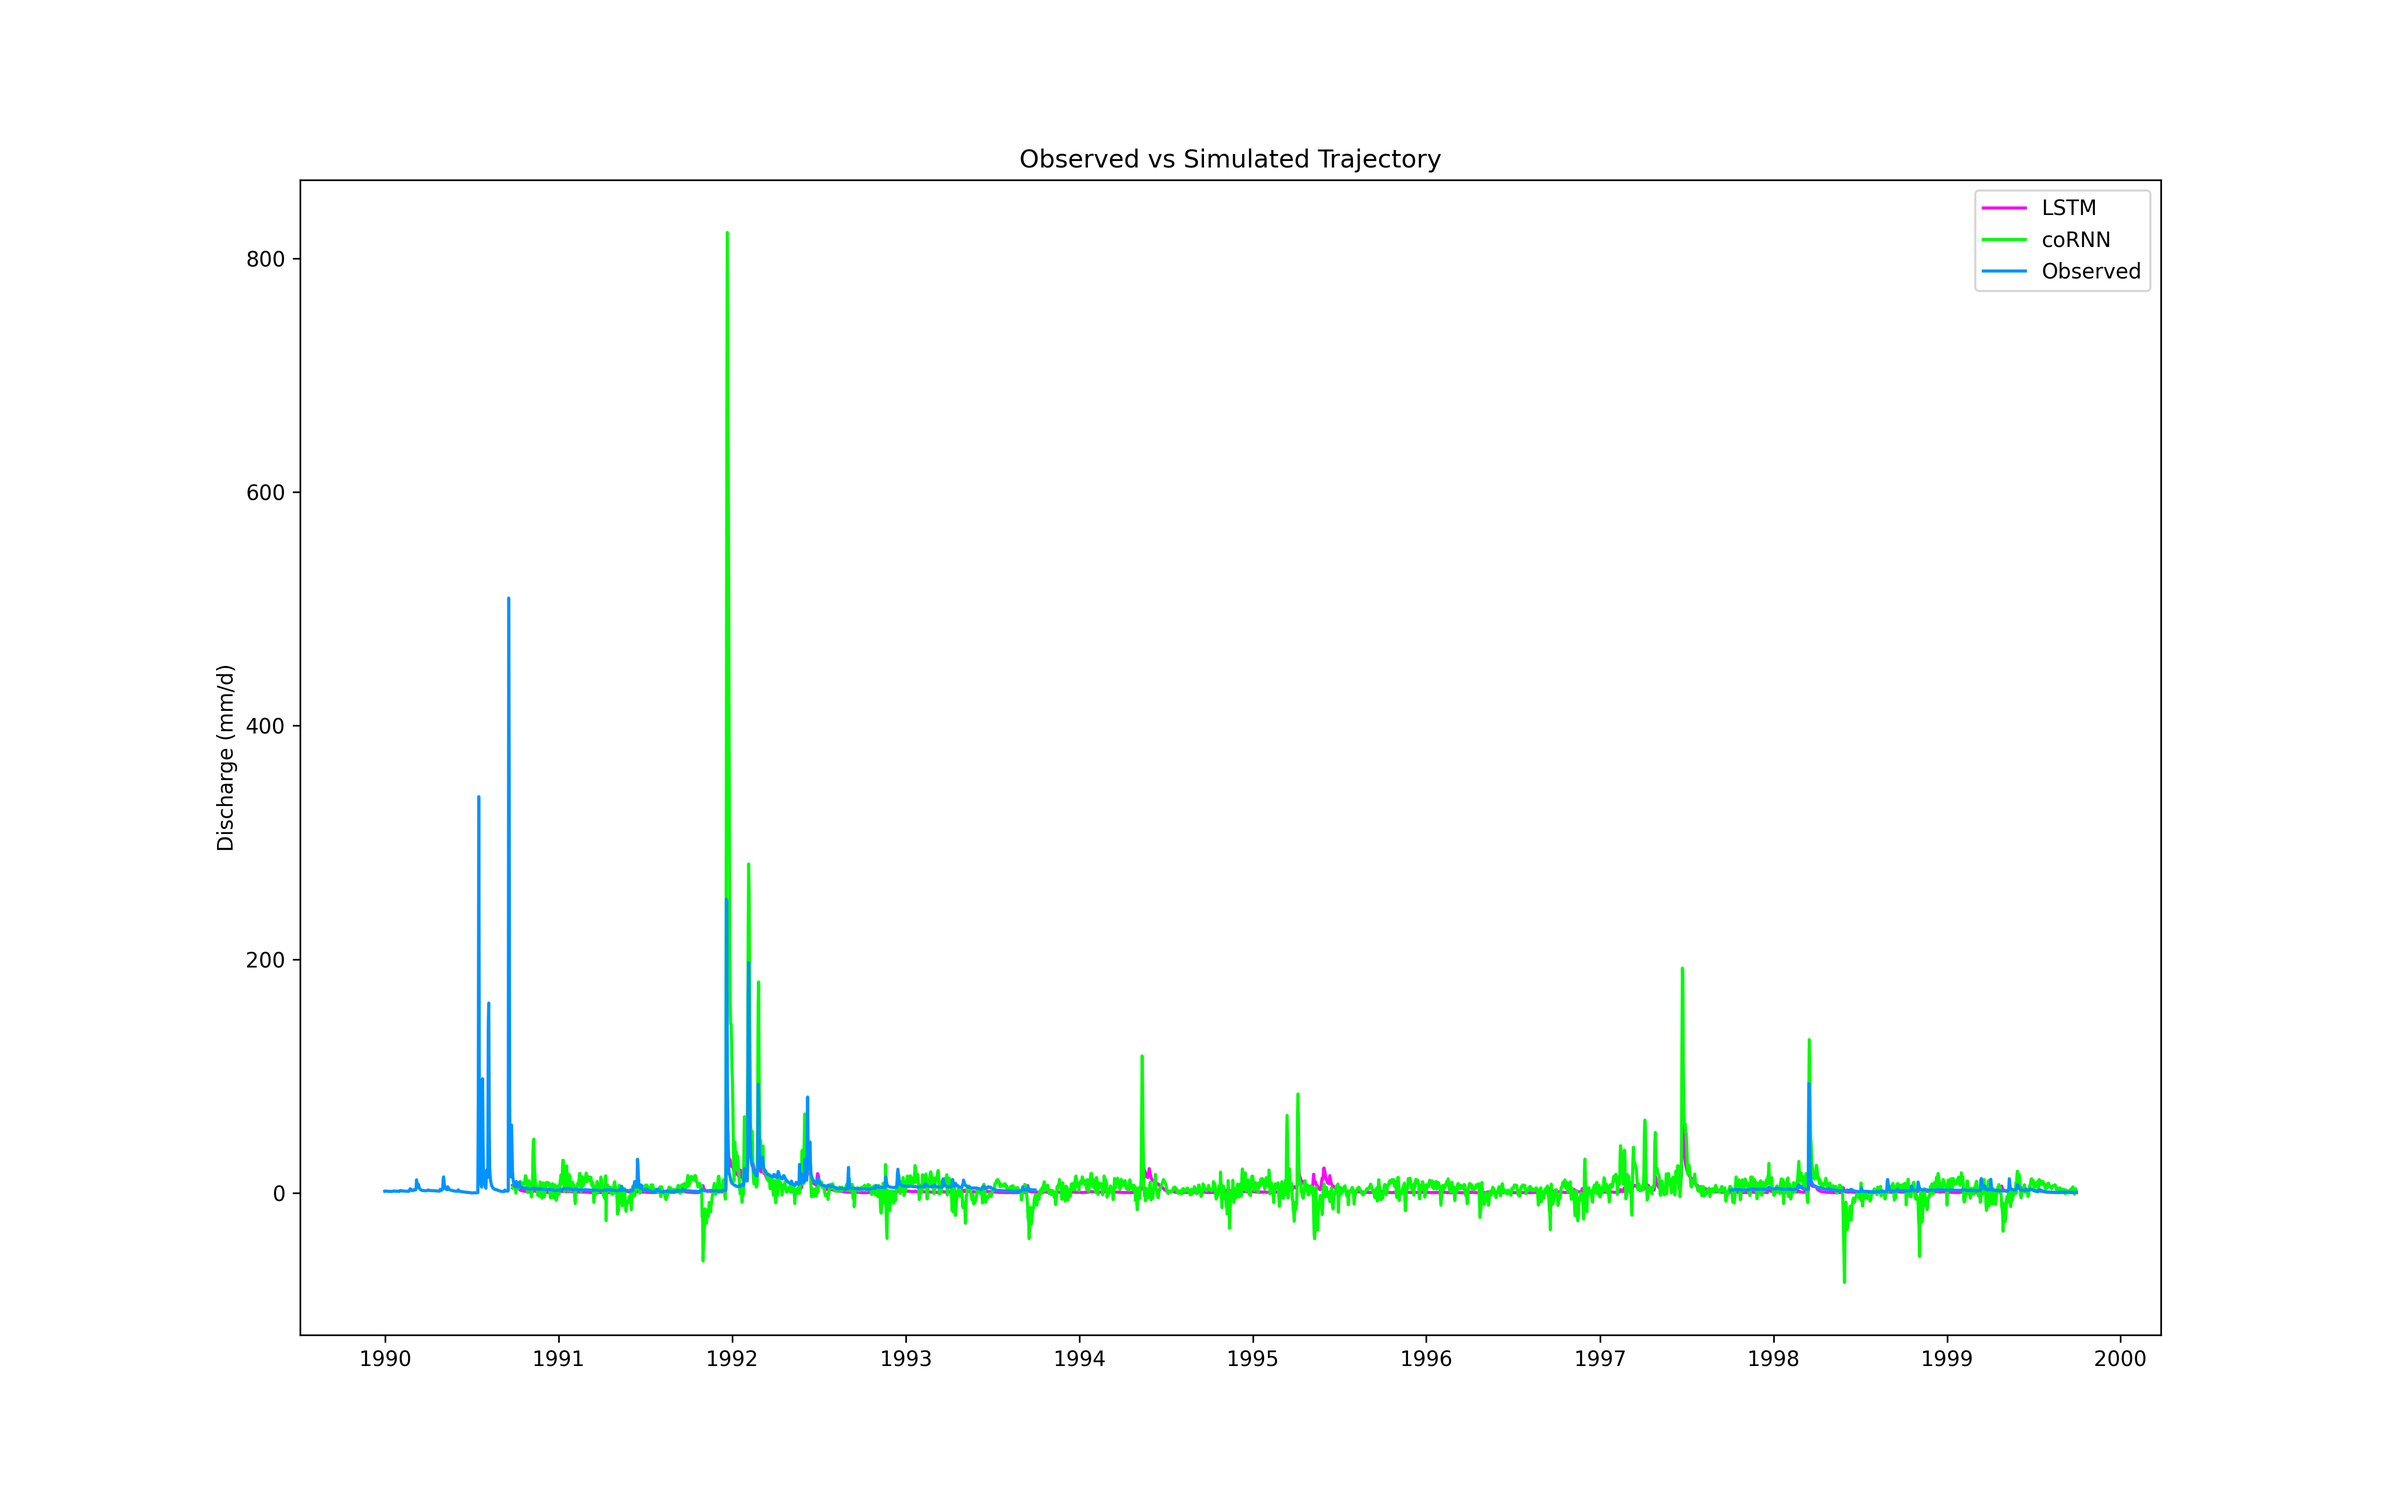
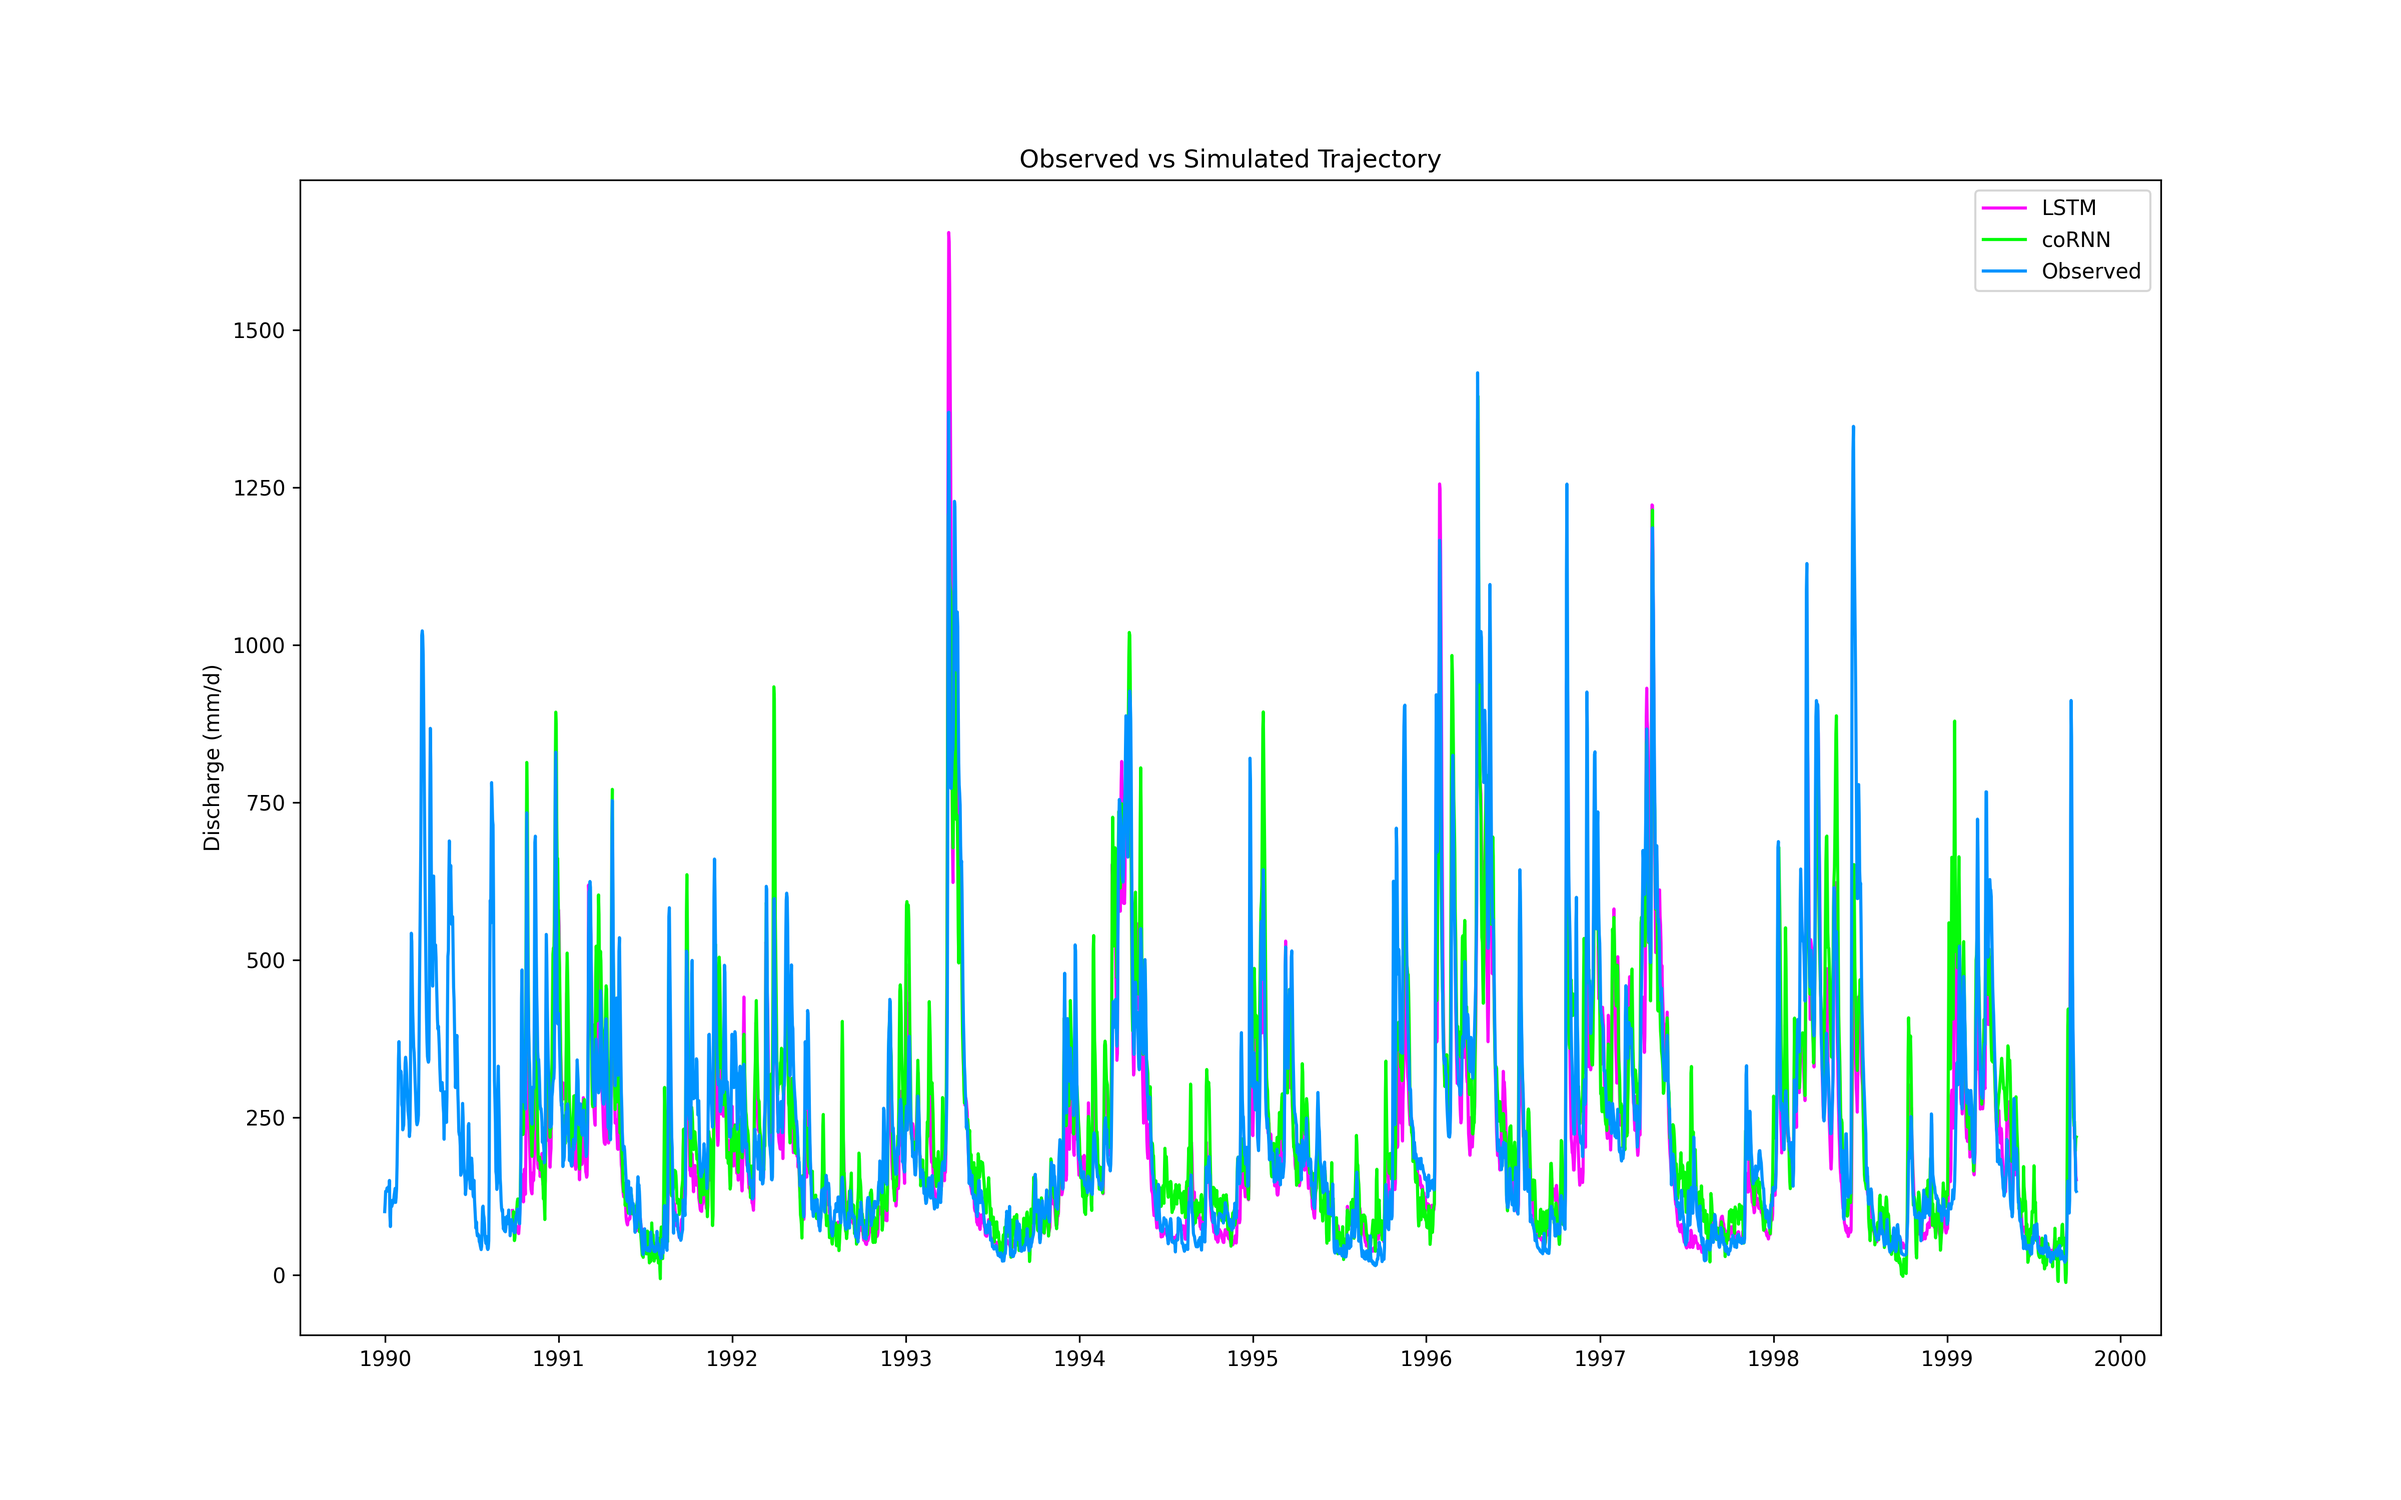
coRNN experimentation, no negatives

diff --git a/examples/catchment_models/neuralhydrology/model_plots.py b/examples/catchment_models/neuralhydrology/model_plots.py
@@ -8,11 +8,11 @@ import matplotlib.pyplot as plt
 import os
 
 if __name__ == "__main__":
-    run_dirs = {
-                'lstm_training' :
-                    ['usa_time_split_adj_0807_170652'],   
+    run_dirs = { 
                 'neuralhydrology':
-                    ['usa_time_split_512nhid_35epochs_1007_143728']
+                    ['usa_time_split_512nhid_35epochs_1007_143728',
+                    'usa_time_split_relu_1207_162102',
+                    'usa_time_split_softplus_1207_162116']
                 }
 
     OvS = []
@@ -28,70 +28,67 @@ if __name__ == "__main__":
                 epoch = '35'
             parts = run_dir.split('_')
             split_name = f"{parts[0].upper()} {parts[1].capitalize()} {parts[2].capitalize()}"
-            exp_name = f"{model}"
+            exp_name = f"{parts[3]}"
 
             # Plot observed vs simulated trajectory
-            qobs, qsim = obs_vs_sim_plot(model_dir, run_dir, epoch, basin_id = '7070737080')
+            qobs, qsim = obs_vs_sim_plot(model_dir, run_dir, epoch)
             OvS.append((qobs, qsim, exp_name))
 
-            # # Plot CDF of NSE
-            # nse, cdf = cdf_plot(model_dir, run_dir, epoch)
-            # CDF.append((nse, cdf, exp_name))
+            # Plot CDF of NSE
+            nse, cdf = cdf_plot(model_dir, run_dir, epoch)
+            CDF.append((nse, cdf, exp_name))
 
-            # # Plot Median NSE vs Epochs
-            # ep, med_nse = NSE_plot(model_dir, run_dir, epoch)
-            # MED_NSE.append((ep, med_nse, exp_name))
+            # Plot Median NSE vs Epochs
+            ep, med_nse = NSE_plot(model_dir, run_dir, epoch)
+            MED_NSE.append((ep, med_nse, exp_name))
     
     if True:
-        plot_folder = 'lstm_v_cornn'
+        plot_folder = 'activation_func'
         if not os.path.exists(f'plots/{plot_folder}'):
             os.makedirs(f'plots/{plot_folder}')
 
-        # # Plot all CDFs on the same figure
-        # plt.figure(1)
-        # for (nse, cdf, exp_name) in CDF:
-        #     plt.plot(nse, cdf, label=exp_name)
-        # plt.xlabel('NSE')
-        # plt.ylabel('CDF')
-        # plt.title(f'{split_name}: CDF of NSE for {epoch} epochs')
-        # plt.xlim(0,1)
-        # plt.ylim(-0.1,1.1)
-        # plt.grid(True)
-        # plt.legend()
-        # fig_path = f'plots/{plot_folder}/CDF_NSE.png'
-        # plt.savefig(fig_path, dpi=300)
-        # plt.close()
+        # Plot all CDFs on the same figure
+        plt.figure(1)
+        for (nse, cdf, exp_name) in CDF:
+            plt.plot(nse, cdf, label=exp_name)
+        plt.xlabel('NSE')
+        plt.ylabel('CDF')
+        plt.title(f'{split_name}: CDF of NSE for {epoch} epochs')
+        plt.xlim(0,1)
+        plt.ylim(-0.1,1.1)
+        plt.grid(True)
+        plt.legend()
+        fig_path = f'plots/{plot_folder}/CDF_NSE.png'
+        plt.savefig(fig_path, dpi=300)
+        plt.close()
 
-        # # Plot all median NSE on the same figure
-        # min_nse = 0
-        # max_nse = 0
-        # plt.figure(2)
-        # for (ep, med_nse, exp_name) in MED_NSE:
-        #     print(exp_name)
-        #     plt.plot(ep, med_nse, '-o', label=exp_name)
-        #     min_nse = min(min_nse, min(med_nse))
-        #     max_nse = max(max_nse, max(med_nse))
-        # plt.xlabel('Epoch')
-        # plt.ylabel('NSE') 
-        # plt.title(split_name + ': Median NSE vs Epoch')
-        # plt.grid(True)
+        # Plot all median NSE on the same figure
+        min_nse = 0
+        max_nse = 0
+        plt.figure(2)
+        for (ep, med_nse, exp_name) in MED_NSE:
+            print(exp_name)
+            plt.plot(ep, med_nse, '-o', label=exp_name)
+            min_nse = min(min_nse, min(med_nse))
+            max_nse = max(max_nse, max(med_nse))
+        plt.xlabel('Epoch')
+        plt.ylabel('NSE') 
+        plt.title(split_name + ': Median NSE vs Epoch')
+        plt.grid(True)
         # plt.xlim(0, int(epoch) + 1)
         # plt.ylim(0.1, 0.6)
-        # plt.legend()
-        # fig_path = f'plots/{plot_folder}/NSE_per_epoch.png'
-        # plt.savefig(fig_path, dpi=300)
-        # plt.close()
+        plt.legend()
+        fig_path = f'plots/{plot_folder}/NSE_per_epoch.png'
+        plt.savefig(fig_path, dpi=300)
+        plt.close()
 
 
         # Plot observed vs simulated trajecory
         plt.figure(3, figsize=(16,10))
         qobs, _, _ = OvS[0]
-        colors = ['#fa0bfb', '#04fb09']
-        i = 0
         for (qobs, qsim, exp_name) in OvS:
-            plt.plot(qsim['date'], qsim, label=f'{exp_name}', color=colors[i])
-            i += 1
-        plt.plot(qobs['date'], qobs, label='Observed', color='#0093ff')
+            plt.plot(qsim['date'], qsim, label=f'{exp_name}')
+        plt.plot(qobs['date'], qobs, label='Observed')
         plt.legend()
         plt.ylabel("Discharge (mm/d)")
         plt.title(f"Observed vs Simulated Trajectory")

diff --git a/examples/catchment_models/neuralhydrology/metric_test.py b/examples/catchment_models/neuralhydrology/metric_test.py
@@ -1,0 +1,129 @@
+import pickle
+import matplotlib.pyplot as plt
+from neuralhydrology.evaluation import metrics
+import os
+from typing import Dict, List, Tuple
+from xarray.core.dataarray import DataArray
+import pandas as pd
+
+def _validate_inputs(obs: DataArray, sim: DataArray):
+    if obs.shape != sim.shape:
+        raise RuntimeError("Shapes of observations and simulations must match")
+
+    if (len(obs.shape) > 1) and (obs.shape[1] > 1):
+        raise RuntimeError("Metrics only defined for time series (1d or 2d with second dimension 1)")
+
+def _mask_valid(obs: DataArray, sim: DataArray) -> Tuple[DataArray, DataArray]:
+    # mask of invalid entries. NaNs in simulations can happen during validation/testing
+    idx = (~sim.isnull()) & (~obs.isnull())
+
+    if idx.shape != obs.shape:
+        raise RuntimeError("Shapes of mask and observations must match")
+
+    obs = obs.where(idx, drop=True)
+    sim = sim.where(idx, drop=True)
+
+    return obs, sim
+
+def calc_metrics(path_to_csv):
+    df = pd.read_csv(path_to_csv)
+    df = df.dropna()
+
+    nse = df['NSE']
+    nse_lt0 = nse[nse < 0]
+    nse_gt0 = nse[nse > 0]
+
+    pct_nse_lt0 = round(100 * len(nse_lt0)/len(nse), 2)
+    mean_nse_gt0 = round(nse_gt0.mean(), 2)
+    median_nse = round(nse.median(), 2)
+
+    return pct_nse_lt0, mean_nse_gt0, median_nse
+
+def cdf_plot(path_to_csv):
+    # Load the CSV file
+    df = pd.read_csv(path_to_csv)
+
+    # Sort the data by NSE
+    df = df.sort_values('NSE')
+
+    # Calculate the CDF values
+    cdf = df['NSE'].rank(method='first', pct=True)
+
+    return df['NSE'], cdf
+
+
+if __name__ == '__main__':
+    # model_dir = 'neuralhydrology'
+    # run_dir = 'usa_time_split_512nhid_35epochs_1007_143728'
+    # epoch = '35'
+
+    # # Load the p file
+    # pickle_file = os.path.join(f'/home/achiang/CliMA/Rivers/examples/catchment_models/{model_dir}/runs/{run_dir}/test/model_epoch0{epoch}/test_results.p')
+
+    # with open(pickle_file, "rb") as fp:
+    #     results = pickle.load(fp)
+    
+    # data = []
+
+    # for basin_id in results.keys():
+    #     # extract observations and simulations. First key is basin number
+    #     qobs = results[basin_id]['1D']['xr']['streamflow_obs']
+    #     qsim = results[basin_id]['1D']['xr']['streamflow_sim']
+
+    #     _validate_inputs(qobs, qsim)
+
+    #     # get time series with only valid observations
+    #     qobs, qsim = _mask_valid(qobs, qsim)
+
+    #     # make all negative values 0
+    #     qsim = qsim.where(qsim > 0, 0)
+
+    #     # calc NSE
+    #     denominator = ((qobs - qobs.mean())**2).sum()
+    #     numerator = ((qsim - qobs)**2).sum()
+
+    #     nse = 1 - numerator / denominator
+
+    #     data.append([basin_id, float(nse)])
+    
+    # #create CSV
+    # df = pd.DataFrame(data, columns=['basin', 'NSE'])
+    # df.to_csv('test_metrics_adj.csv', index=False)
+
+    # calculate metrics
+    paths = {
+            'adj coRNN': 'neuralhydrology/test_metrics_adj.csv',
+            'coRNN' : 'neuralhydrology/runs/usa_time_split_512nhid_35epochs_1007_143728/test/model_epoch035/test_metrics.csv',
+            'LSTM' : 'lstm_training/runs/usa_time_split_adj_0807_170652/test/model_epoch014/test_metrics.csv'
+            }
+
+    CDF = []
+    for exp_name, path_to_csv in paths.items():
+        abs_path = f'/home/achiang/CliMA/Rivers/examples/catchment_models/{path_to_csv}'
+        pct_nse_lt0, mean_nse_gt0, median_nse = calc_metrics(abs_path)
+        
+        print(exp_name)
+        print(f'%_NSE<0 : {pct_nse_lt0}%')
+        print(f'Mean_NSE>0 : {mean_nse_gt0}')
+        print(f'Median : {median_nse} \n')
+        
+        nse, cdf = cdf_plot(abs_path)
+        CDF.append((nse, cdf, exp_name))
+    
+    plot_folder = 'neg_traj'
+    if not os.path.exists(f'plots/{plot_folder}'):
+        os.makedirs(f'plots/{plot_folder}')
+
+    plt.figure(1)
+    for (nse, cdf, exp_name) in CDF:
+        plt.plot(nse, cdf, label=exp_name)
+    plt.xlabel('NSE')
+    plt.ylabel('CDF')
+    plt.title(f'USA time split: CDF of NSE')
+    plt.xlim(0,1)
+    plt.ylim(-0.1,1.1)
+    plt.grid(True)
+    plt.legend()
+    fig_path = f'plots/{plot_folder}/CDF_NSE.png'
+    plt.savefig(fig_path, dpi=300)
+    plt.close()

diff --git a/examples/catchment_models/neuralhydrology/calc_metrics.py b/examples/catchment_models/neuralhydrology/calc_metrics.py
@@ -18,11 +18,11 @@ def calc_metrics(model_dir, run_dir, epoch):
     return pct_nse_lt0, mean_nse_gt0, median_nse
 
 if __name__=="__main__":
-    run_dict = {
-                'lstm_training' :
-                    ['usa_time_split_adj_0807_170652'],   
+    run_dict = { 
                 'neuralhydrology':
-                    ['usa_time_split_512nhid_35epochs_1007_143728']
+                    ['usa_time_split_512nhid_35epochs_1007_143728',
+                    'usa_time_split_relu_1207_162102',
+                    'usa_time_split_softplus_1207_162116']
                 }
 
     for model_dir, run_dirs in run_dict.items():
@@ -34,8 +34,10 @@ if __name__=="__main__":
             epoch = '35'
 
         for run_dir in run_dirs:
+            parts = run_dir.split('_')
+            exp_name = f"{parts[3]}"
             pct_nse_lt0, mean_nse_gt0, median_nse = calc_metrics(model_dir, run_dir, epoch)
-            print(model)
+            print(exp_name)
             print(f'%_NSE<0 : {pct_nse_lt0}%')
             print(f'Mean_NSE>0 : {mean_nse_gt0}')
             print(f'Median : {median_nse} \n')

diff --git a/examples/catchment_models/neuralhydrology/basin_testing.py b/examples/catchment_models/neuralhydrology/basin_testing.py
@@ -3,7 +3,8 @@ import pandas as pd
 
 def get_df(model_dir, run_dir, epoch):
     path_to_csv = f'/home/achiang/CliMA/Rivers/examples/catchment_models/{model_dir}/runs/{run_dir}/test/model_epoch0{epoch}/test_metrics.csv'
-
+    if model_dir == 'neuralhydrology':
+        path_to_csv = 'test_metrics_adj.csv'
     df = pd.read_csv(path_to_csv)
     df = df.dropna()
     return df
